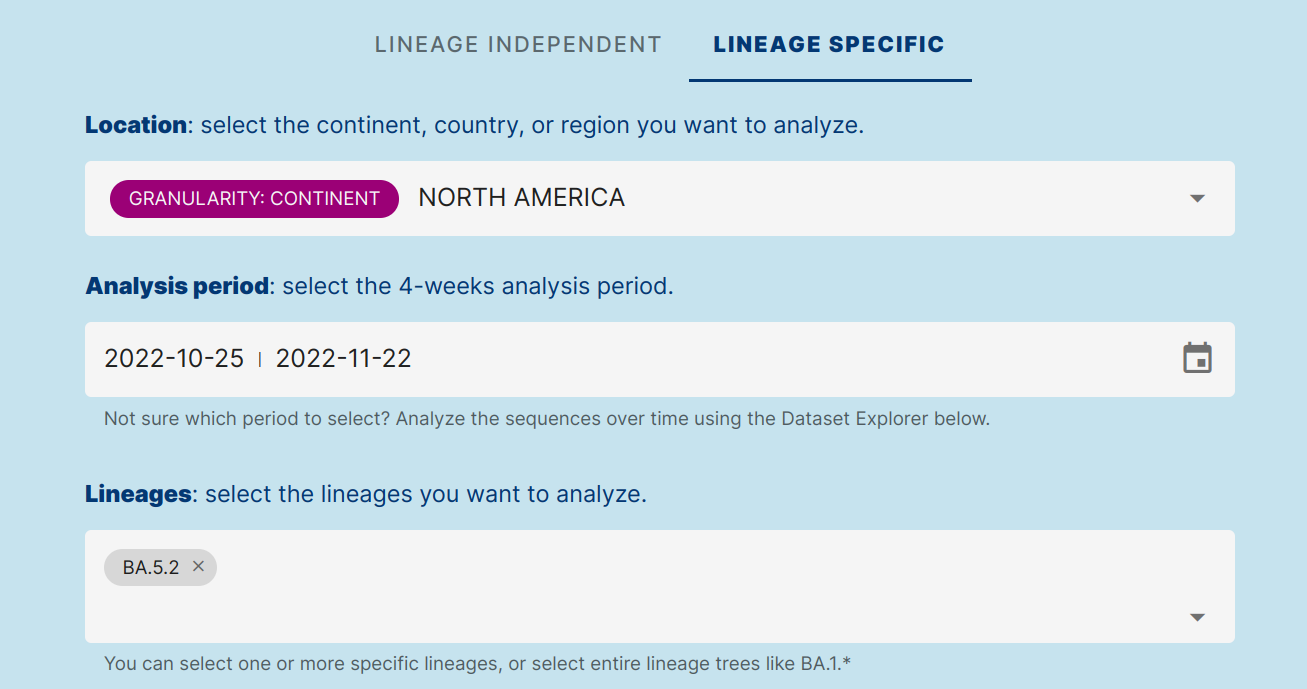
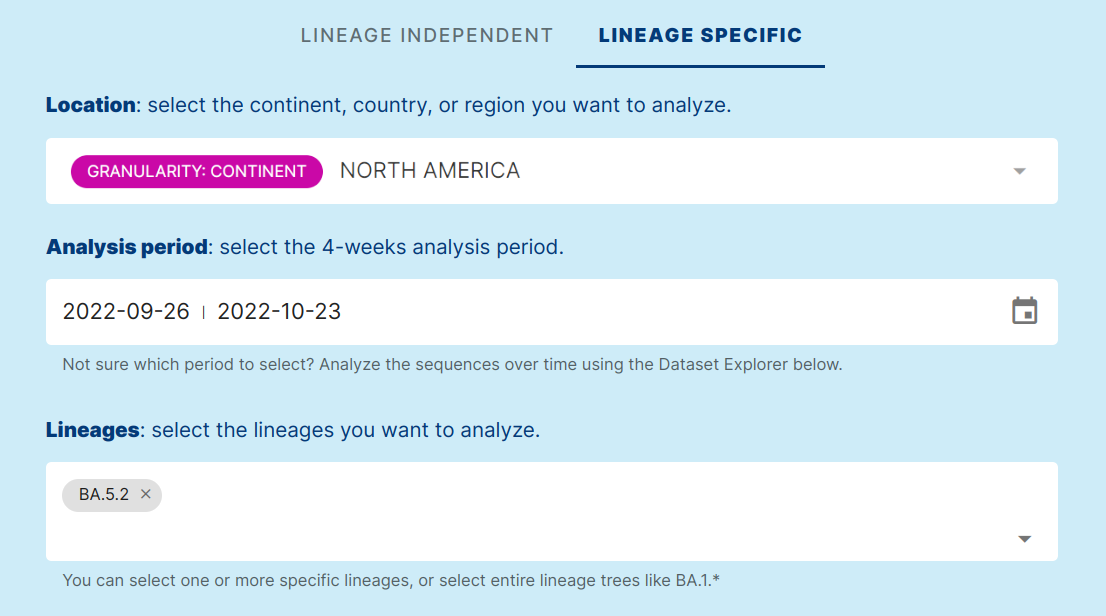
Update lineage specific use case 2

Changed region(s): [[0.0307, 0.1542, 0.9837, 0.6169], [0.0307, 0.6786, 0.9837, 0.987], [0.2767, 0.0308, 0.7378, 0.1234]]

diff --git a/frontend/src/components/guides/tool/lin-specific/uc/LinSpecUseCase2.vue b/frontend/src/components/guides/tool/lin-specific/uc/LinSpecUseCase2.vue
@@ -32,7 +32,7 @@
       <p class='mt-sm-5'>
         A Variant Hunter "lineage-specific" analysis was applied to study amino-acid changes in the
         <b>BA.5.2 lineage</b>, in <i>North America</i> in an interval of time between
-        <i>25/10/2022 and 22/11/2022</i>, which should coincide with the emergence and spread of BA.5.2.39.
+        <i>26/09/2022 and 23/10/2022</i>, which should coincide with the emergence and spread of BA.5.2.39.
       </p>
     </paragraph>
 
